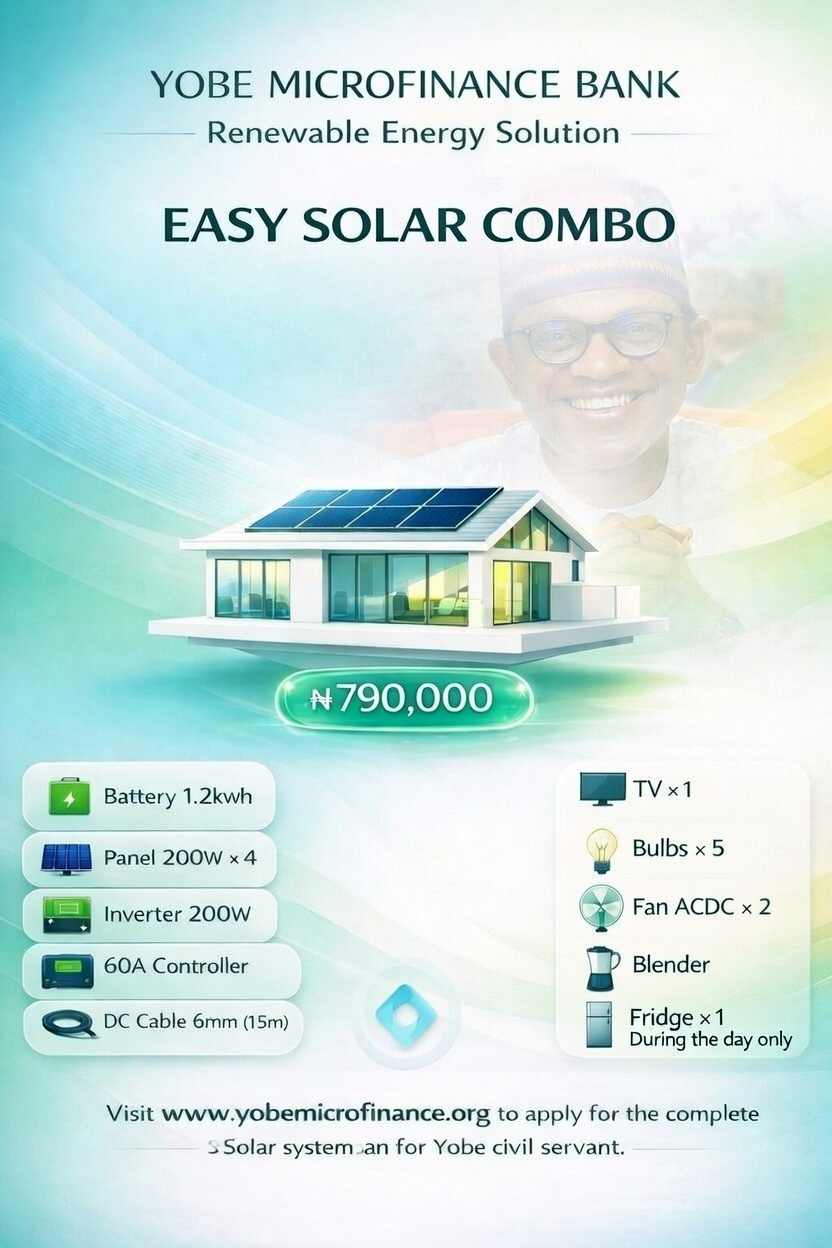
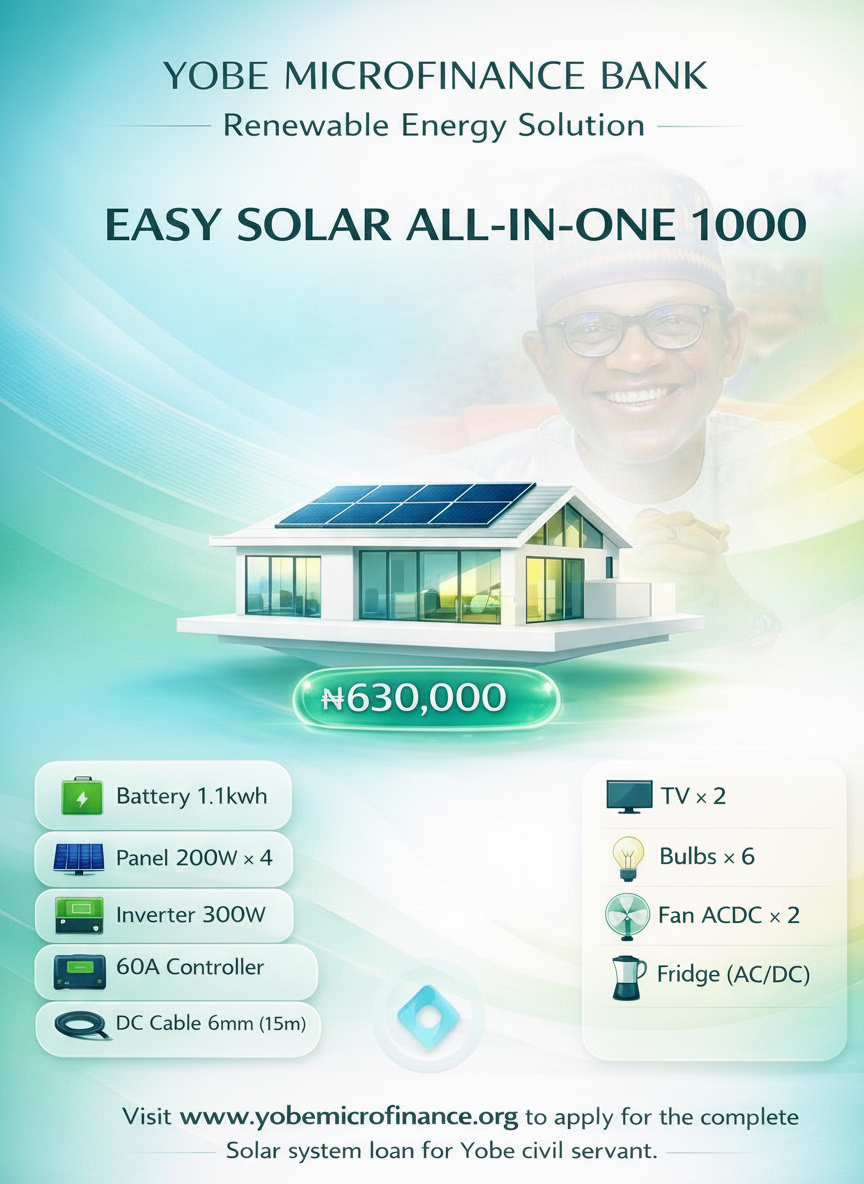
Changes

diff --git a/src/pages/admin/AnalyticsDashboard.tsx b/src/pages/admin/AnalyticsDashboard.tsx
@@ -534,7 +534,7 @@ export default function AnalyticsDashboard() {
         <div className="grid md:grid-cols-2 gap-4 mb-8">
           <Card>
             <CardHeader>
-              <CardTitle className="text-base">Cola Solar 1000 Pro (1kWh)</CardTitle>
+              <CardTitle className="text-base">Easy Solar All-in-One 1000 (1kWh)</CardTitle>
               <CardDescription>Totals within selected date range</CardDescription>
             </CardHeader>
             <CardContent>
@@ -553,7 +553,7 @@ export default function AnalyticsDashboard() {
 
           <Card>
             <CardHeader>
-              <CardTitle className="text-base">Cola Solar 2000 (2kWh)</CardTitle>
+              <CardTitle className="text-base">Smart Solar 2000 (2kWh)</CardTitle>
               <CardDescription>Totals within selected date range</CardDescription>
             </CardHeader>
             <CardContent>
@@ -614,8 +614,8 @@ export default function AnalyticsDashboard() {
                   <YAxis allowDecimals={false} />
                   <Tooltip />
                   <Legend />
-                  <Bar dataKey="cola1000Count" name="Cola Solar 1000 Pro" fill="hsl(var(--primary))" />
-                  <Bar dataKey="cola2000Count" name="Cola Solar 2000" fill="hsl(var(--secondary))" />
+                  <Bar dataKey="cola1000Count" name="Easy Solar 1000" fill="hsl(var(--primary))" />
+                  <Bar dataKey="cola2000Count" name="Smart Solar 2000" fill="hsl(var(--secondary))" />
                 </BarChart>
               </ResponsiveContainer>
             </CardContent>
@@ -634,8 +634,8 @@ export default function AnalyticsDashboard() {
                   <YAxis tickFormatter={(v) => `${Number(v) / 1000}k`} />
                   <Tooltip formatter={(v: any) => formatAmount(Number(v))} />
                   <Legend />
-                  <Bar dataKey="cola1000Amount" name="1000 Pro amount" fill="hsl(var(--accent))" />
-                  <Bar dataKey="cola2000Amount" name="2000 amount" fill="hsl(var(--info))" />
+                  <Bar dataKey="cola1000Amount" name="Easy Solar 1000 amount" fill="hsl(var(--accent))" />
+                  <Bar dataKey="cola2000Amount" name="Smart Solar 2000 amount" fill="hsl(var(--info))" />
                 </BarChart>
               </ResponsiveContainer>
             </CardContent>

diff --git a/src/components/solar/SolarComparisonTable.tsx b/src/components/solar/SolarComparisonTable.tsx
@@ -98,7 +98,7 @@ export function SolarComparisonTable() {
         <div className="md:hidden space-y-6">
           <div className="rounded-lg border bg-card">
             <div className="px-4 py-3 border-b bg-muted/40">
-              <div className="text-sm font-semibold text-foreground">Cola Solar 1000 Pro</div>
+              <div className="text-sm font-semibold text-foreground">Easy Solar All-in-One 1000</div>
               <div className="text-xs text-muted-foreground">Best for essential home power</div>
             </div>
             <div className="px-4">
@@ -110,7 +110,7 @@ export function SolarComparisonTable() {
 
           <div className="rounded-lg border bg-card">
             <div className="px-4 py-3 border-b bg-muted/40">
-              <div className="text-sm font-semibold text-foreground">Cola Solar 2000</div>
+              <div className="text-sm font-semibold text-foreground">Smart Solar 2000</div>
               <div className="text-xs text-muted-foreground">Best for full household power</div>
             </div>
             <div className="px-4">
@@ -128,10 +128,10 @@ export function SolarComparisonTable() {
               <HeaderCell>Specification</HeaderCell>
             </div>
             <div className="col-span-4">
-              <HeaderCell>Cola Solar 1000 Pro</HeaderCell>
+              <HeaderCell>Easy Solar All-in-One 1000</HeaderCell>
             </div>
             <div className="col-span-4">
-              <HeaderCell>Cola Solar 2000</HeaderCell>
+              <HeaderCell>Smart Solar 2000</HeaderCell>
             </div>
           </div>
 
@@ -153,7 +153,7 @@ export function SolarComparisonTable() {
         </div>
 
         <p className="text-xs text-muted-foreground mt-3">
-          Tip: If you need to run heavier appliances (iron/heater) or more devices at once, Cola Solar 2000 is the better fit.
+          Tip: If you need to run heavier appliances (iron/heater) or more devices at once, Smart Solar 2000 is the better fit.
         </p>
       </CardContent>
     </Card>

diff --git a/src/lib/solar-products.ts b/src/lib/solar-products.ts
@@ -1,7 +1,7 @@
-import colaSolar2000Image from "@/assets/cola-solar-2000.jpg";
-import colaSolar1000Image from "@/assets/cola-solar-1000.jpg";
+import smartSolar2000Image from "@/assets/smart-solar-combo.jpg";
+import easySolar1000Image from "@/assets/easy-solar-combo.jpg";
 
-export type SolarProductId = "cola_1000" | "cola_2000";
+export type SolarProductId = "easy_1000" | "smart_2000";
 
 export type SolarProductInfo = {
   id: SolarProductId;
@@ -21,11 +21,11 @@ export type SolarProductInfo = {
 
 export const solarProducts: SolarProductInfo[] = [
   {
-    id: "cola_1000",
-    title: "Cola Solar 1000 Pro",
+    id: "easy_1000",
+    title: "Easy Solar All-in-One 1000",
     subtitle: "All-in-One Solar Power System (1 kWh)",
     price: 630000,
-    imageSrc: colaSolar1000Image,
+    imageSrc: easySolar1000Image,
     warranty: {
       durationLabel: "5-year warranty",
       summary:
@@ -52,11 +52,11 @@ export const solarProducts: SolarProductInfo[] = [
     highlight: "Ideal for everyday home essentials.",
   },
   {
-    id: "cola_2000",
-    title: "Cola Solar 2000",
+    id: "smart_2000",
+    title: "Smart Solar 2000",
     subtitle: "All-in-One Solar Power System (2 kWh)",
-    price: 1232000,
-    imageSrc: colaSolar2000Image,
+    price: 1196000,
+    imageSrc: smartSolar2000Image,
     warranty: {
       durationLabel: "5-year warranty",
       summary:

diff --git a/supabase/functions/chat/index.ts b/supabase/functions/chat/index.ts
@@ -59,7 +59,7 @@ serve(async (req) => {
     // This is a basic implementation that logs usage for monitoring
     
     const systemPrompt = `You are Ramatu, a helpful and friendly loan advisor for Yobe Microfinance Bank. You assist customers with:
- - Information about solar loan products (Cola Solar 1000 Pro and Cola Solar 2000)
+ - Information about solar loan products (Easy Solar All-in-One 1000 and Smart Solar 2000)
 - Loan eligibility requirements
 - Application process and required documents
 - Repayment terms and schedules
@@ -72,8 +72,8 @@ serve(async (req) => {
  - Required documents: NIN, BVN, passport photograph, pay slip
 - Loan amounts: ₦100,000 - ₦300,000, ₦300,000 - ₦600,000, ₦600,000 - ₦1,000,000, Above ₦1,000,000
  - Solar products:
-   - Cola Solar 1000 Pro (₦630,000)
-   - Cola Solar 2000 (₦1,232,000)
+   - Easy Solar All-in-One 1000 (₦630,000)
+   - Smart Solar 2000 (₦1,196,000)
  - Repayment periods for solar loans: 12 or 18 months
 - Contact: 08142576613
 

diff --git a/src/pages/admin/CreditAdminDashboard.tsx b/src/pages/admin/CreditAdminDashboard.tsx
@@ -368,7 +368,7 @@ export default function CreditAdminDashboard() {
         <div className="grid lg:grid-cols-2 gap-4 mb-8">
           <Card>
             <CardHeader className="pb-2">
-              <CardTitle className="text-base">Cola Solar 1000 Pro (1kWh)</CardTitle>
+              <CardTitle className="text-base">Easy Solar All-in-One 1000 (1kWh)</CardTitle>
               <CardDescription>Within selected date range</CardDescription>
             </CardHeader>
             <CardContent>
@@ -387,7 +387,7 @@ export default function CreditAdminDashboard() {
 
           <Card>
             <CardHeader className="pb-2">
-              <CardTitle className="text-base">Cola Solar 2000 (2kWh)</CardTitle>
+              <CardTitle className="text-base">Smart Solar 2000 (2kWh)</CardTitle>
               <CardDescription>Within selected date range</CardDescription>
             </CardHeader>
             <CardContent>

diff --git a/src/components/layout/Footer.tsx b/src/components/layout/Footer.tsx
@@ -51,8 +51,8 @@ export function Footer() {
           <div>
             <h3 className="font-display font-semibold text-lg mb-4">Our Services</h3>
             <ul className="space-y-2">
-              <li className="text-sm text-primary-foreground/80">Cola Solar 1000 Pro</li>
-              <li className="text-sm text-primary-foreground/80">Cola Solar 2000</li>
+              <li className="text-sm text-primary-foreground/80">Easy Solar All-in-One 1000</li>
+              <li className="text-sm text-primary-foreground/80">Smart Solar 2000</li>
               <li className="text-sm text-primary-foreground/80">Savings Account</li>
               <li className="text-sm text-primary-foreground/80">Current Account</li>
               <li className="text-sm text-primary-foreground/80">Corporate Account</li>

diff --git a/src/utils/analyticsReportGenerator.ts b/src/utils/analyticsReportGenerator.ts
@@ -116,11 +116,11 @@ export const generateAnalyticsReportHtml = (params: {
       <div class="kpi-value">${formatAmount(params.totalAmount)}</div>
     </div>
     <div class="card">
-      <div class="kpi-label">Cola Solar 1000 Pro</div>
+      <div class="kpi-label">Easy Solar All-in-One 1000</div>
       <div class="kpi-value">${params.cola1000Count} • ${formatAmount(params.cola1000Amount)}</div>
     </div>
     <div class="card">
-      <div class="kpi-label">Cola Solar 2000</div>
+      <div class="kpi-label">Smart Solar 2000</div>
       <div class="kpi-value">${params.cola2000Count} • ${formatAmount(params.cola2000Amount)}</div>
     </div>
   </div>

diff --git a/src/types/database.ts b/src/types/database.ts
@@ -147,13 +147,13 @@ export interface LoanStep3Data {
 // Solar Product Configuration
 export const SOLAR_PRODUCTS = {
   short_term: {
-    name: 'Cola Solar 1000 Pro (1kWh)',
+    name: 'Easy Solar All-in-One 1000 (1kWh)',
     price: 630000,
     description: 'Compact all-in-one solar system for essential home power needs',
   },
   long_term: {
-    name: 'Cola Solar 2000 (2kWh)',
-    price: 1232000,
+    name: 'Smart Solar 2000 (2kWh)',
+    price: 1196000,
     description: 'High-capacity all-in-one solar system for full household power needs',
   },
 } as const;

diff --git a/supabase/functions/generate-pdf/index.ts b/supabase/functions/generate-pdf/index.ts
@@ -25,8 +25,8 @@ function generateAdminPDFHTML(application: any, guarantors: any[], passportPhoto
 
   const getSolarProductName = (productType: string) => {
     const products: Record<string, string> = {
-      'short_term': 'Cola Solar 1000 Pro (1kWh) - ₦630,000',
-      'long_term': 'Cola Solar 2000 (2kWh) - ₦1,232,000'
+      'short_term': 'Easy Solar All-in-One 1000 (1kWh) - ₦630,000',
+      'long_term': 'Smart Solar 2000 (2kWh) - ₦1,196,000'
     };
     return products[productType] || productType;
   };

diff --git a/src/utils/pdfGenerator.ts b/src/utils/pdfGenerator.ts
@@ -42,8 +42,8 @@ function formatCurrency(amount: number): string {
 
 function getSolarProductName(productType: string): string {
   const products: Record<string, string> = {
-    'short_term': 'Cola Solar 1000 Pro (1kWh) - ₦630,000',
-    'long_term': 'Cola Solar 2000 (2kWh) - ₦1,232,000'
+    'short_term': 'Easy Solar All-in-One 1000 (1kWh) - ₦630,000',
+    'long_term': 'Smart Solar 2000 (2kWh) - ₦1,196,000'
   };
   return products[productType] || productType;
 }
